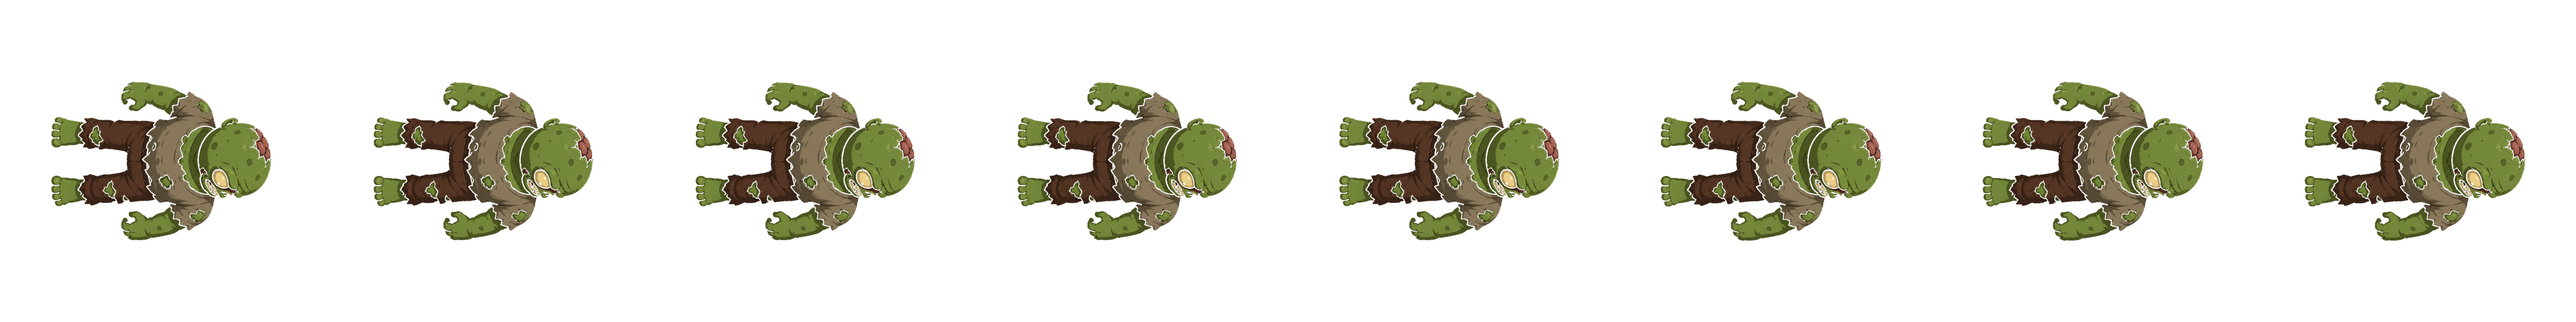
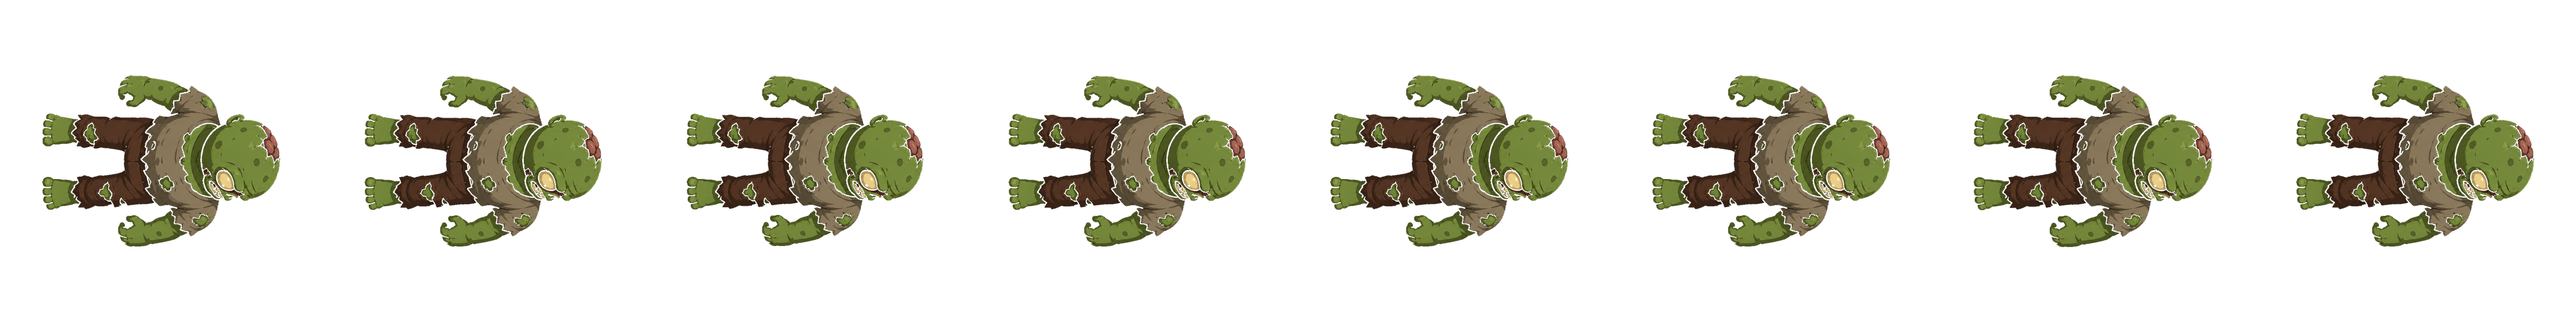
Redraw tank boss and golden top-down sprites, increase size, and ground shadows for natural movement toward the player.

Changed region(s): [[0.0, 0.2188, 1.0, 0.7812]]

diff --git a/public/game.js b/public/game.js
@@ -159,7 +159,7 @@ const WAVE_EVENTS = [
 
 
 
-const SPRITE_VERSION = 31;
+const SPRITE_VERSION = 32;
 
 function loadSpriteSheet(relativePath, frameCount, frameWidth, frameHeight, meta = {}) {
   const sheet = { img: new Image(), frameCount, frameWidth, frameHeight, ready: false, ...meta };
@@ -292,22 +292,22 @@ const ZOMBIE_VARIANT_META = {
   normal: {
     idle: { path: "images/zombies/zombie-normal-idle-sheet.png", frameCount: 8, frameWidth: 640, frameHeight: 640 },
     move: { path: "images/zombies/zombie-normal-move-sheet.png", frameCount: 8, frameWidth: 640, frameHeight: 640 },
-    sizeMult: 1.18
+    sizeMult: 1.32
   },
   tank: {
     idle: { path: "images/zombies/zombie-tank-idle-sheet.png", frameCount: 8, frameWidth: 640, frameHeight: 640 },
     move: { path: "images/zombies/zombie-tank-move-sheet.png", frameCount: 8, frameWidth: 640, frameHeight: 640 },
-    sizeMult: 1.18
+    sizeMult: 1.36
   },
   boss: {
     idle: { path: "images/zombies/zombie-boss-idle-sheet.png", frameCount: 8, frameWidth: 640, frameHeight: 640 },
     move: { path: "images/zombies/zombie-boss-move-sheet.png", frameCount: 8, frameWidth: 640, frameHeight: 640 },
-    sizeMult: 1.24
+    sizeMult: 1.42
   },
   golden: {
     idle: { path: "images/zombies/zombie-golden-idle-sheet.png", frameCount: 8, frameWidth: 640, frameHeight: 640 },
     move: { path: "images/zombies/zombie-golden-move-sheet.png", frameCount: 8, frameWidth: 640, frameHeight: 640 },
-    sizeMult: 1.1
+    sizeMult: 1.28
   }
 };
 
@@ -375,13 +375,16 @@ function getZombieDrawMotion(z) {
 
   const set = getZombieVariantSet(z);
   const moving = (z.animTick || 0) > 0;
+  const drawSize = z.size * (set.sizeMult || 1);
 
   return {
     frame: moving ? z.animFrame || 0 : 0,
-    cyOffset: 0,
+    cyOffset: z.size * 0.18,
     angle: z.facingAngle || 0,
     squashX: 1,
-    drawSize: z.size * (set.sizeMult || 1),
+    drawSize,
+    shadowY: z.y + z.size * 0.94,
+    shadowSize: drawSize * 0.38,
     anchor: "center"
   };
 }
@@ -7294,7 +7297,9 @@ function drawEntityShadow(cx, cy, size, anchor = "center") {
 }
 
 function drawSpriteWithGlow(sheet, frame, cx, cy, size, angle, glowColor, glow = {}) {
-  drawEntityShadow(cx, cy, size, glow.anchor);
+  if (!glow.skipShadow) {
+    drawEntityShadow(cx, cy, size, glow.anchor);
+  }
   if (!sheet.ready || sheet.frameWidth <= 0) return false;
 
   const glowBlur = glow.blur ?? 14;
@@ -7433,8 +7438,13 @@ function draw() {
     const drawY = cy + motion.cyOffset;
     const glowOptions = {
       squashX: motion.squashX,
-      anchor: motion.anchor
+      anchor: motion.anchor,
+      skipShadow: variantArt
     };
+
+    if (variantArt) {
+      drawEntityShadow(cx, motion.shadowY, motion.shadowSize, "feet");
+    }
 
     if (
       !drawSpriteWithGlow(
@@ -7467,7 +7477,7 @@ function draw() {
       ctx.fillRect(z.x, z.y, z.size, z.size);
     }
 
-    const barTop = variantArt ? cy - motion.drawSize * 0.52 : z.y - 2;
+    const barTop = variantArt ? cy + motion.cyOffset - motion.drawSize * 0.48 : z.y - 2;
     const barWidth = Math.max(34, z.size * 0.62);
     const isElite =
       isWaveBoss || z.tier === "boss" || z.tier === "medium" || z.tier === "tank";

diff --git a/public/index.html b/public/index.html
@@ -5284,7 +5284,7 @@ TikTok @hulklives
 </div>
 
 <script src="game-pro.js?v=3"></script>
-<script src="game.js?v=210"></script>
+<script src="game.js?v=211"></script>
 <script src="chat.js?v=2"></script>
 <script src="daily-challenges.js?v=2"></script>
 <script src="friends.js?v=5"></script>
